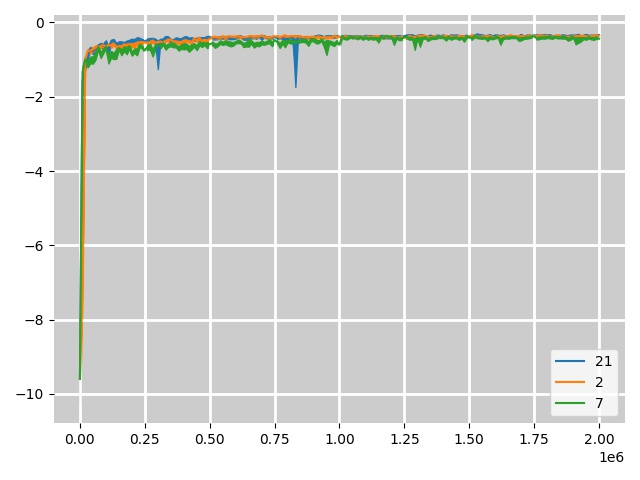
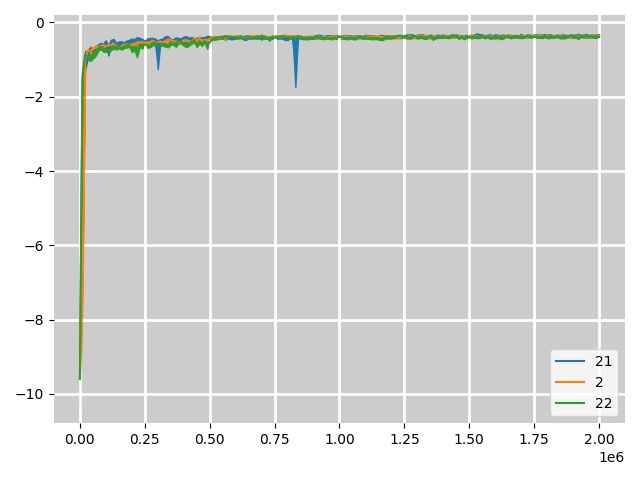
updated init and environment

Changed region(s): [[0.125, 0.0625, 0.5625, 0.1562], [0.5938, 0.0625, 0.9375, 0.0938], [0.9375, 0.8125, 0.9688, 0.8438]]

diff --git a/custom_gym_envs/__init__.py b/custom_gym_envs/__init__.py
@@ -36,27 +36,27 @@ register(
 register(
     id="FetchReachEnv-v0",
     entry_point="custom_gym_envs.envs.fetchreach.FetchReachEnv_v0_Normal.fetch.reach:FetchReachEnv",
-    kwargs={'reward_type': 'dense'},
+    kwargs={"reward_type": "dense"},
     max_episode_steps=50,
 )
 
 register(
     id="FetchReachEnv-v1",
     entry_point="custom_gym_envs.envs.fetchreach.FetchReachEnv_v1_BrokenShoulderLiftJoint.fetch.reach:FetchReachEnv",
-    kwargs={'reward_type': 'dense'},
+    kwargs={"reward_type": "dense"},
     max_episode_steps=50,
 )
 
 register(
     id="FetchReachEnv-v2",
     entry_point="custom_gym_envs.envs.fetchreach.FetchReachEnv_v2_BrokenElbowFlexJoint.fetch.reach:FetchReachEnv",
-    kwargs={'reward_type': 'dense'},
+    kwargs={"reward_type": "dense"},
     max_episode_steps=50,
 )
 
 register(
     id="FetchReachEnv-v3",
     entry_point="custom_gym_envs.envs.fetchreach.FetchReachEnv_v3_BrokenWristFlexJoint.fetch.reach:FetchReachEnv",
-    kwargs={'reward_type': 'dense'},
+    kwargs={"reward_type": "dense"},
     max_episode_steps=50,
 )

diff --git a/test.py b/test.py
@@ -2,9 +2,10 @@ import custom_gym_envs
 import gym
 import time
 
-from environment.fetch_reach_observation_wrapper import FetchReachObservationWrapper
+from environment.fetchreach_observation_wrapper import FetchReachObservationWrapper
+from environment.environment import Environment
 
-env = FetchReachObservationWrapper(gym.make("FetchReachEnv-v0"))
+env = Environment("FetchReachEnv-v1", 0)
 
 
 

diff --git a/environment/environment.py b/environment/environment.py
@@ -33,7 +33,7 @@ class Environment(BaseEnvironment):
         self.render = render
 
         if "FetchReach" in self.env_name:
-            self.env = FetchReachObservationWrapper(gym.make(self.env_name))
+            self.env = FetchReachObservationWrapper(gym.make(self.env_name, reward_type="dense"))
         else:
             self.env = gym.make(self.env_name)
 
